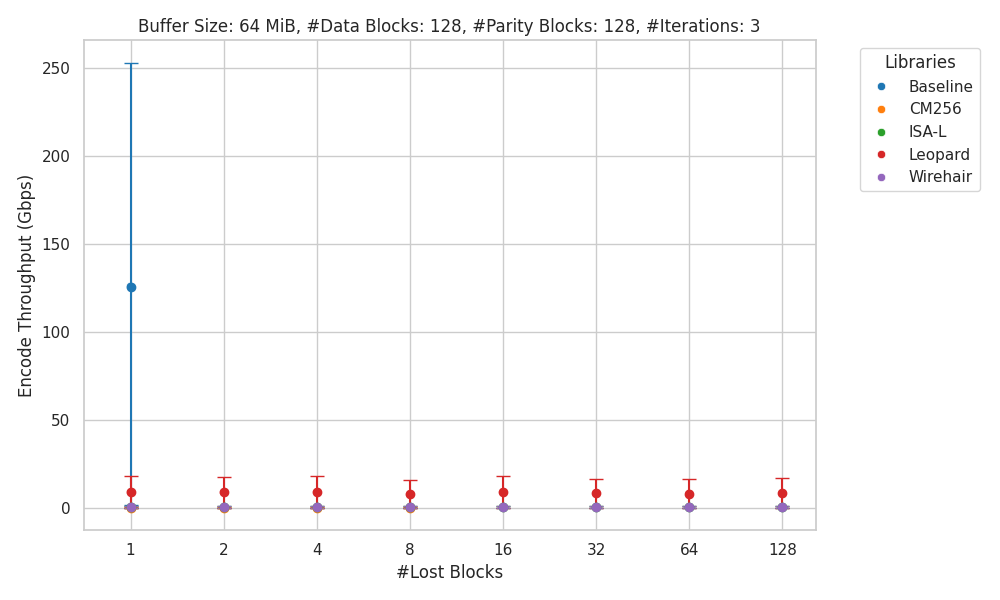
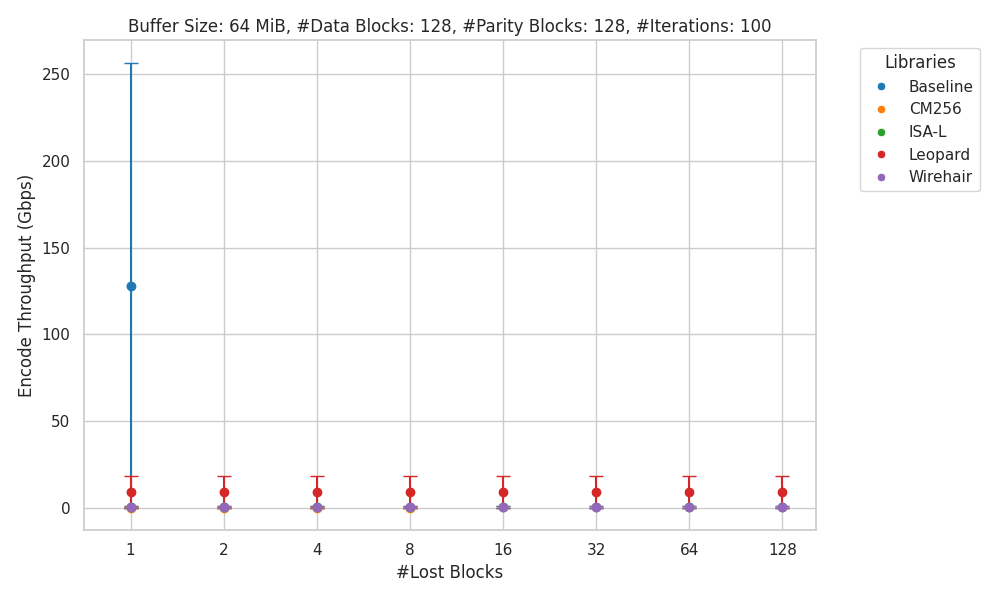
AVX detection

diff --git a/include/xorbaseline.h b/include/xorbaseline.h
@@ -1,0 +1,62 @@
+#ifndef XORBASELINE_H
+#define XORBASELINE_H
+#include <bitset>
+#include <cstdint>
+
+#if defined(__AVX512F__):
+  #define XORBASELINE_AVX512
+  #include <immintrin.h>
+  constexpr uint32_t XORBASELINE_BLOCK_SIZE_MULTIPLE = 64;
+#elif defined(__AVX2__):
+  #define XORBASELINE_AVX2
+  #include <immintrin.h>
+  constexpr uint32_t XORBASELINE_BLOCK_SIZE_MULTIPLE = 32;
+#elif defined(__AVX__):
+  #define XORBASELINE_AVX
+  #include <immintrin.h>
+  constexpr uint32_t XORBASELINE_BLOCK_SIZE_MULTIPLE = 16;
+#else
+  constexpr uint32_t XORBASELINE_BLOCK_SIZE_MULTIPLE = 8;
+#endif
+
+
+constexpr uint32_t XORBASELINE_PTR_ALIGNMENT = 32;
+constexpr uint32_t XORBASELINE_MIN_BLOCK_SIZE = 64;
+
+constexpr uint32_t XORBASELINE_MIN_DATA_BLOCKS = 1;
+constexpr uint32_t XORBASELINE_MAX_DATA_BLOCKS = 255;
+
+constexpr uint32_t XORBASELINE_MIN_PARITY_BLOCKS = 1;
+constexpr uint32_t XORBASELINE_MAX_PARITY_BLOCKS = 128;
+
+constexpr uint32_t XORBASELINE_MAX_TOTAL_BLOCKS = 256;
+
+
+typedef enum XORBaselineResult_t {
+  XORBaseline_Success = 0,
+
+  XORBaseline_InvalidSize = 1,
+  
+  XORBaseline_InvalidCounts = 2,
+
+  XORBaseline_InvalidAlignment = 3
+} XORBaselineResult;
+
+XORBaselineResult encode(
+  uint8_t *data_buffer,
+  uint8_t *parity_buffer,
+  uint32_t block_size,
+  uint32_t num_data_blocks,
+  uint32_t num_parity_blocks
+);
+
+XORBaselineResult decode(
+  uint8_t *data_buffer,
+  uint8_t *parity_buffer,
+  uint32_t block_size,
+  uint32_t num_data_blocks,
+  uint32_t num_parity_blocks,
+  std::bitset<256> &lost_blocks
+ );
+
+#endif // XORBASELINE_H

diff --git a/src/xorbaseline.cpp b/src/xorbaseline.cpp
@@ -1,0 +1,49 @@
+#include "xorbaseline.h"
+
+
+XORBaselineResult encode(
+  uint8_t *data_buffer,
+  uint8_t *parity_buffer,
+  uint32_t block_size,
+  uint32_t num_data_blocks,
+  uint32_t num_parity_blocks
+) {
+  if (block_size < XORBASELINE_MIN_BLOCK_SIZE || block_size % XORBASELINE_BLOCK_SIZE_MULTIPLE != 0) {
+    return XORBaseline_InvalidSize;
+  }
+
+  if (
+    num_data_blocks + num_parity_blocks > XORBASELINE_MAX_TOTAL_BLOCKS ||
+    num_data_blocks < XORBASELINE_MIN_DATA_BLOCKS ||
+    num_data_blocks > XORBASELINE_MAX_DATA_BLOCKS ||
+    num_parity_blocks < XORBASELINE_MIN_PARITY_BLOCKS ||
+    num_parity_blocks > XORBASELINE_MAX_PARITY_BLOCKS
+  ) {
+        return XORBaseline_InvalidCounts;
+  }
+
+  if (
+    reinterpret_cast<uintptr_t>((uintptr_t)data_buffer) % XORBASELINE_PTR_ALIGNMENT != 0 ||
+    reinterpret_cast<uintptr_t>(parity_buffer) % XORBASELINE_PTR_ALIGNMENT != 0
+  ) {
+    return XORBaseline_InvalidAlignment;
+  }
+
+  #if defined(XORBASELINE_AVX512)
+    // AVX-512 implementation
+  #elif defined(XORBASELINE_AVX2)
+    // AVX2 implementation
+  #elif defined(XORBASELINE_AVX)
+    // AVX implementation
+  #else
+    // Scalar implementation
+
+    for (unsigned i = 0; i < num_parity_blocks; i++) {
+    
+    }
+
+  #endif
+
+
+  return XORBaseline_Success;  
+}

diff --git a/scripts/plot_benchmark_results.py b/scripts/plot_benchmark_results.py
@@ -8,7 +8,7 @@ import numpy as np
 
 # File / directory paths
 SCRIPT_DIR = os.path.dirname(os.path.abspath(__file__))
-INPUT_FILE = os.path.join(SCRIPT_DIR, "../results/raw/benchmark_results.csv")
+INPUT_FILE = os.path.join(SCRIPT_DIR, "../results/raw/benchmark_results_100.csv")
 OUTPUT_DIR = os.path.join(SCRIPT_DIR, "../results/processed/")
 
 
@@ -67,10 +67,13 @@ if __name__ == "__main__":
   df["name"] = df["name"].str.split("/", n=1).str[0]
   df = df[df["err_msg"].isna()]
 
+
   # Compute additional columns 
   df["encode_time_ms"] = df["encode_time_ns"] / 1e6
   df["decode_time_ms"] = df["decode_time_ns"] / 1e6
   df["tot_data_size_MiB"] = df["tot_data_size_B"] // (1024 * 1024)
+
+
 
 
   # Compute confidence intervals
@@ -86,6 +89,9 @@ if __name__ == "__main__":
     df.rename(columns={f"{col}_ns_lower": f"{col}_ms_lower", f"{col}_ns_upper": f"{col}_ms_upper"}, inplace=True)
     df[f"{col}_ms_lower"] = df[f"{col}_ms_lower"] / 1e6
     df[f"{col}_ms_upper"] = df[f"{col}_ms_upper"] / 1e6
+
+  # df = df[df["name"] != "CM256"]
+  # print(df[df["decode_time_ms_lower"] < 0])
 
   dfs = {plot_id: group for plot_id, group in df.groupby("plot_id")}
 

diff --git a/src/main.cpp b/src/main.cpp
@@ -446,7 +446,7 @@ int main (int argc, char** argv) {
   }
 
   // Initialize reporters
-  std::string output_file = "benchmark_results_100.csv";
+  std::string output_file = "benchmark_results_test.csv";
   BenchmarkCSVReporter csv_reporter(OUTPUT_FILE_PATH + output_file, true);
   BenchmarkProgressReporter console_reporter(num_runs);
 
